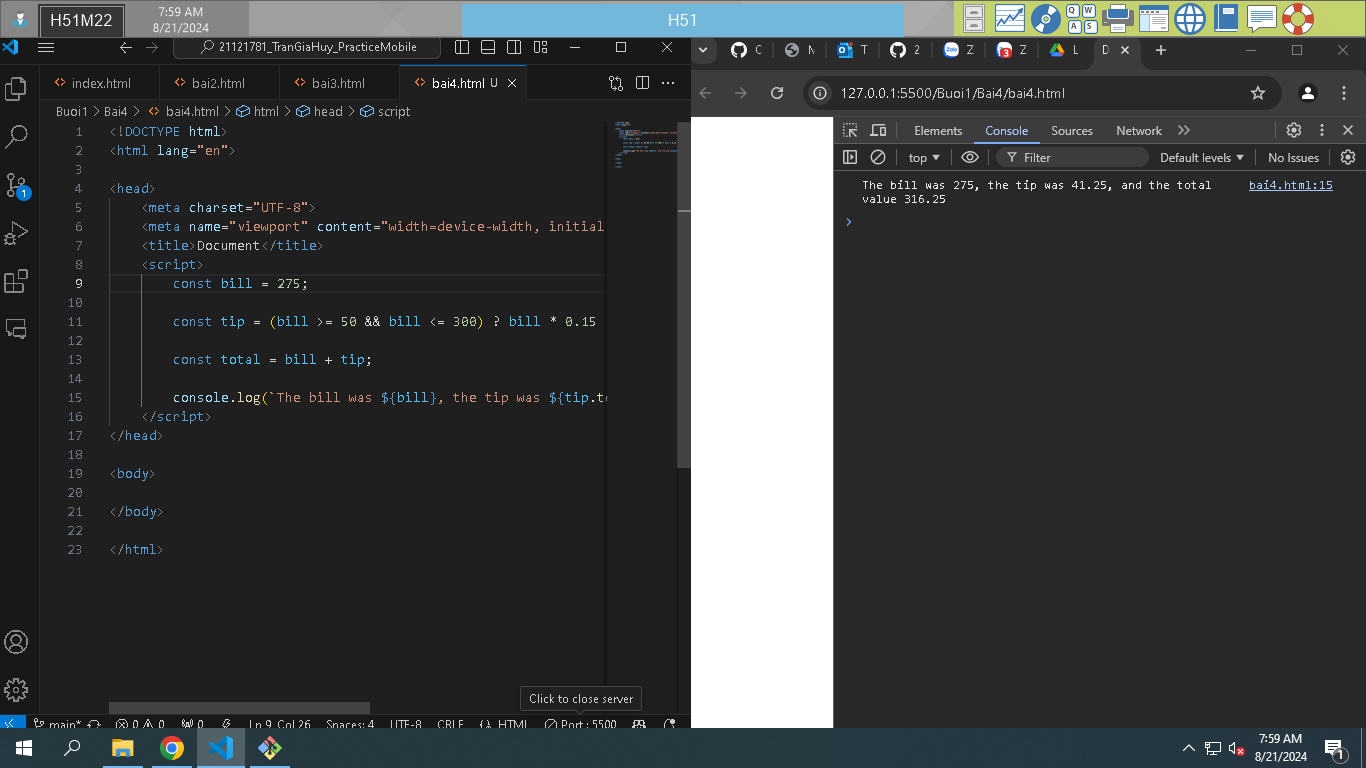
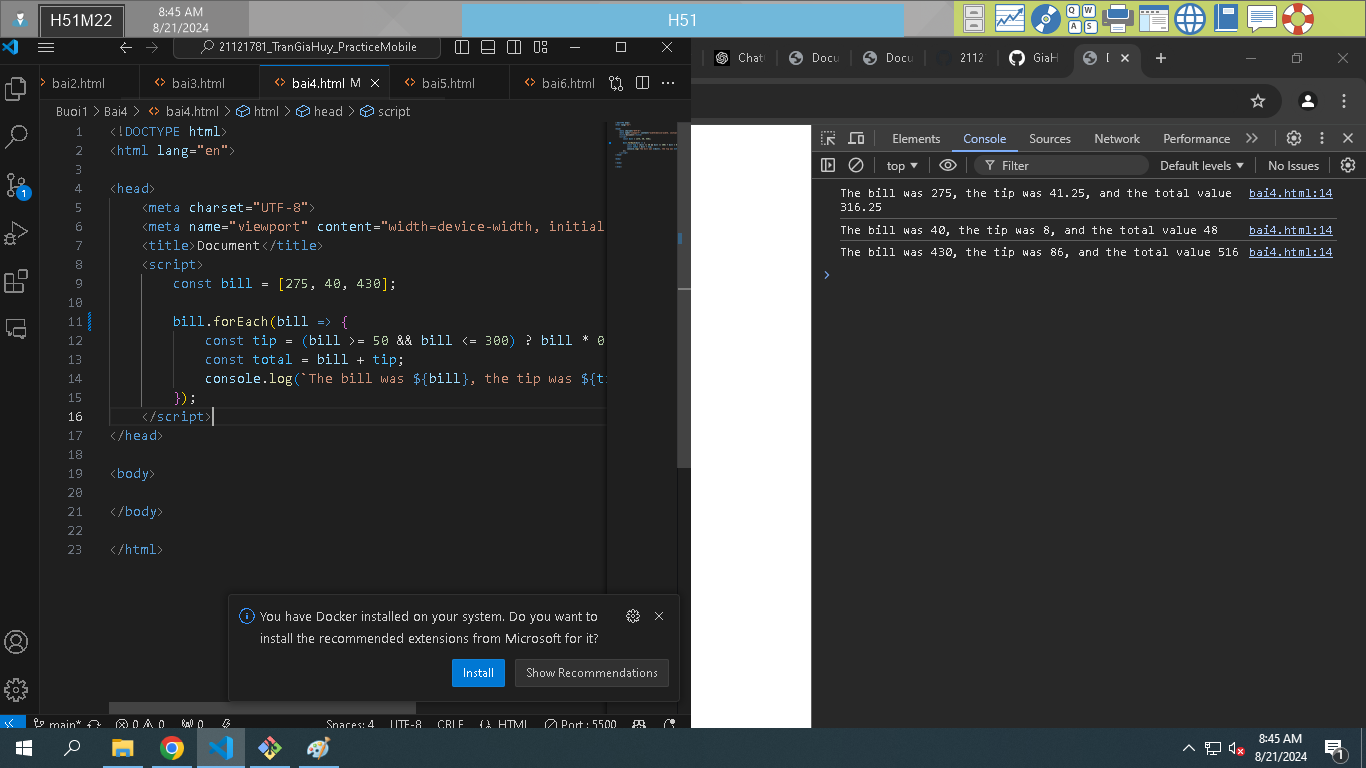
Sua bai 4 lan 2

diff --git a/Buoi1/Bai4/bai4.html b/Buoi1/Bai4/bai4.html
@@ -8,7 +8,7 @@
     <script>
         const bill = [275, 40, 430];
 
-        array.forEach(bill => {
+        bill.forEach(bill => {
             const tip = (bill >= 50 && bill <= 300) ? bill * 0.15 : bill * 0.2;
             const total = bill + tip;
             console.log(`The bill was ${bill}, the tip was ${tip}, and the total value ${total}`);
